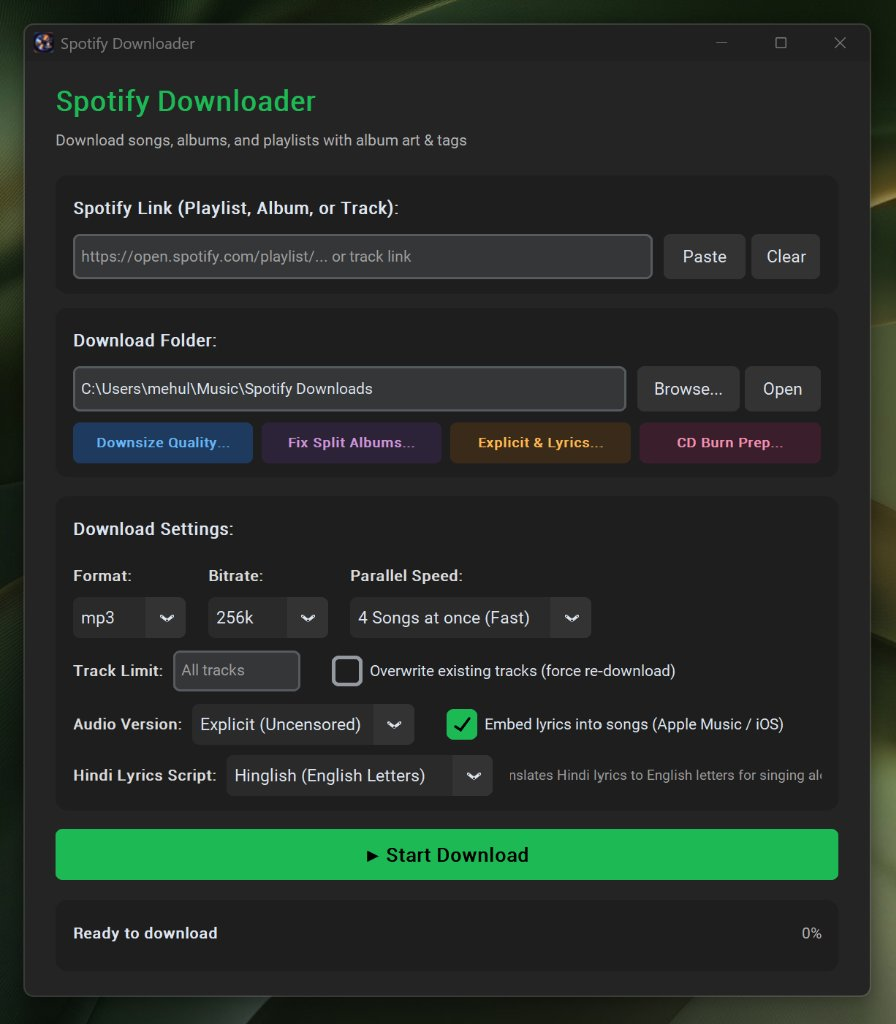
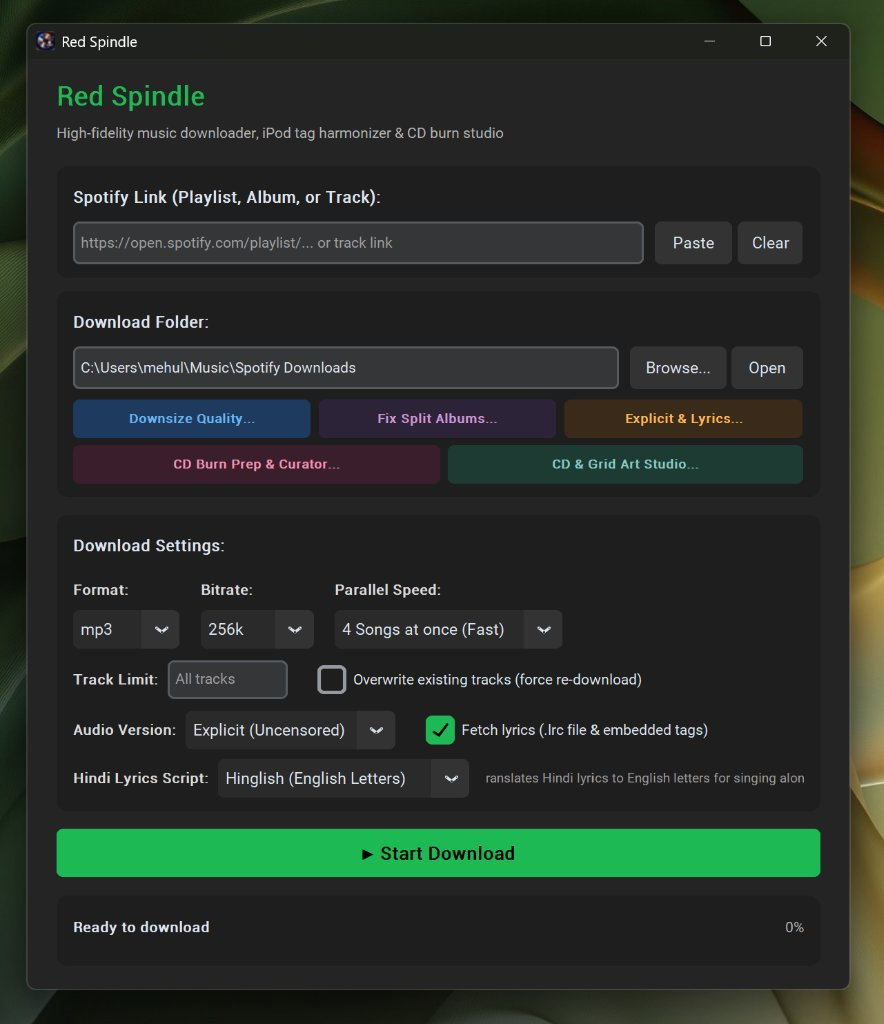
Update screenshots, generalize split album section to universal Album Artist tagging, and add CD art studio comparison gallery

diff --git a/gui.py b/gui.py
@@ -1371,7 +1371,7 @@ class FixAlbumTagsDialog(ctk.CTkToplevel):
     def __init__(self, parent: ctk.CTk, default_folder: Path):
         super().__init__(parent)
 
-        self.title("Fix Split Albums (Apple Music / iTunes)")
+        self.title("Fix Split Albums (Album Artist Tag Unification)")
         self.geometry("640x520")
         self.minsize(580, 460)
         self.transient(parent)
@@ -1438,7 +1438,7 @@ class FixAlbumTagsDialog(ctk.CTkToplevel):
         # Header
         title = ctk.CTkLabel(
             container,
-            text="Fix Split Albums for Apple Music & iOS",
+            text="Fix Split Albums (Album Artist Tag Unification)",
             font=ctk.CTkFont(size=18, weight="bold"),
             text_color="#CE93D8",
             anchor="w",
@@ -1447,7 +1447,7 @@ class FixAlbumTagsDialog(ctk.CTkToplevel):
 
         subtitle = ctk.CTkLabel(
             container,
-            text="Unifies Album Artist tags so albums with featured singers (e.g. Gorillaz feat. Snoop Dogg)\nstay grouped into a single album in Apple Music and iTunes. 100% lossless (no audio re-encoding).",
+            text="Unifies Album Artist tags so albums with featured singers (e.g. Gorillaz feat. Snoop Dogg)\nstay grouped across Windows Media Player, Apple Music, and mobile libraries. Lossless.",
             font=ctk.CTkFont(size=11),
             text_color="gray70",
             justify="left",

diff --git a/README.md b/README.md
@@ -5,9 +5,9 @@
 </p>
 
 <p align="center">
-  <a href="#built-for-apple-music-itunes-and-ipods"><img src="https://img.shields.io/badge/Apple%20Music-100%25%20Ready-FA2D48?style=flat&logo=apple-music&logoColor=white" alt="Apple Music Ready" /></a>
-  <a href="#built-for-apple-music-itunes-and-ipods"><img src="https://img.shields.io/badge/iPod-Classic%20%7C%20Nano%20%7C%20Touch-888888?style=flat&logo=apple&logoColor=white" alt="iPod Compatible" /></a>
-  <a href="#built-for-apple-music-itunes-and-ipods"><img src="https://img.shields.io/badge/iTunes-Sync%20Optimized-E74C3C?style=flat&logo=itunes&logoColor=white" alt="iTunes Sync Ready" /></a>
+  <a href="#library-tagging-and-player-compatibility"><img src="https://img.shields.io/badge/Metadata-Universal%20ID3v2-007ACC?style=flat" alt="Universal ID3v2" /></a>
+  <a href="#library-tagging-and-player-compatibility"><img src="https://img.shields.io/badge/WMP%20%26%20Apple%20Music-Split--Album%20Fix-FA2D48?style=flat" alt="Split-Album Fix" /></a>
+  <a href="#library-tagging-and-player-compatibility"><img src="https://img.shields.io/badge/iPod-Classic%20%7C%20Nano%20%7C%20Touch-888888?style=flat&logo=apple&logoColor=white" alt="iPod Compatible" /></a>
   <a href="#cd-burn-preparation-and-smart-disc-splitting"><img src="https://img.shields.io/badge/CD--R%20Burn-Smart%20Packing-E65100?style=flat" alt="CD-R Smart Packing" /></a>
   <a href="#cd-and-grid-art-studio-stickers-and-collages"><img src="https://img.shields.io/badge/CD%20Sticker%20Studio-300%20DPI%20Print-00897B?style=flat" alt="CD Sticker Studio" /></a>
 </p>
@@ -48,15 +48,15 @@ Prefer a portable single-file app without installing Python? Download from [**La
 
 ---
 
-## Built for Apple Music, iTunes, and iPods
+## Library Tagging and Player Compatibility
 
-Importing downloads into iTunes, Apple Music, or syncing to an iPod often introduces tagging and display problems. Red Spindle addresses these directly:
+Most media players—including Windows Media Player, Apple Music, iTunes, and mobile apps—organize collections using metadata tags. Red Spindle structures tags to avoid common grouping and display issues:
 
-- **Unified Album Artist (Prevents Split Albums)**: On Apple Music and iPods, tracks with guest artists (for example, Gorillaz featuring Snoop Dogg) often separate into multiple 1-song albums. Red Spindle sets a unified `Album Artist` tag (`TPE2` in MP3, `aART` in M4A) while keeping individual track artist credits, keeping albums intact.
-- **Embedded Lyrics for Players Without Sidecar Support**: While standard players use separate `.lrc` files, Apple Music and iPods only display lyrics embedded directly in file metadata (`USLT` for MP3, `©lyr` for M4A). Red Spindle embeds these tags so tapping the album artwork on iOS 7–18 shows the lyrics.
-- **iPod-Compatible 640x640 Artwork**: Progressive or high-resolution JPEGs can crash vintage click-wheel iPods (iPod Video 5th gen, Classic 6th/7th gen, iPod Nano). Covers are saved as standard 640&times;640 baseline JPEGs.
-- **Advisory Badges**: Adds iTunes `rtng` advisory metadata so tracks show official `[E]` (Explicit) or `[Clean]` badges in Apple Music and iTunes.
-- **Library Tag Repair Tool**: Click **Fix Split Albums...** in the app or run `python spotify_dl.py --fix-tags "path/to/music"` to fix Album Artist tags across existing folders without re-encoding audio.
+- **Unified Album Artist (Prevents Split Albums)**: When songs feature guest artists (for example, *Gorillaz feat. Snoop Dogg*), media players lacking a unified `Album Artist` tag (`TPE2` in MP3, `aART` in M4A) separate the release into multiple 1-song albums. Red Spindle sets a consistent `Album Artist` while preserving track-level performer credits.
+- **Dual-Layer Lyrics (.lrc and Embedded Tags)**: Standard players read external `.lrc` files, while closed players (like Apple Music and car stereos) only read internal container tags (`USLT` for MP3, `©lyr` for M4A). Red Spindle provides both.
+- **iPod-Compatible 640x640 Artwork**: Progressive or high-resolution JPEGs can crash click-wheel iPods (iPod Video 5th gen, Classic 6th/7th gen, iPod Nano). Covers are saved as standard 640&times;640 baseline JPEGs.
+- **Content Advisory Badges**: Adds `rtng` metadata so explicit and clean radio tracks display `[E]` or `[Clean]` tags in supporting players.
+- **Library Tag Repair**: Use **Fix Split Albums...** in the app or run `python spotify_dl.py --fix-tags "path/to/music"` to update grouping tags across existing files without re-encoding audio.
 
 ---
 
@@ -217,31 +217,37 @@ python spotify_dl.py --update-explicit "C:\Users\mehul\Music\Spotify Downloads" 
 
 ---
 
-## Apple Music and iTunes Album Grouping (Fix Split Albums)
+## Library Organization: Fixing Split Albums (Album Artist Tagging)
 
-If you download an album with featured guest artists (such as Gorillaz' *Plastic Beach* featuring Snoop Dogg, Bobby Womack, or Little Dragon) and sync it to Apple Music or iOS, the album may appear "fragmented" across your library as multiple separate album tiles with 1 or 2 songs each.
+When downloading an album where individual tracks feature guest performers (such as *Gorillaz feat. Snoop Dogg*), media players often fragment the release into separate 1-song or 2-song albums.
 
-### Why Albums Split in Apple Music
+<p align="center">
+  <img src="assets/screenshot-split-albums.png" alt="Fix Split Albums Tool" width="550" />
+</p>
 
-Apple Music and iOS organize albums by the **Album Artist** tag (`TPE2` in MP3, `aART` in M4A, `albumartist` in FLAC). If an album only has the individual track artist filled in (e.g. `Gorillaz feat. Snoop Dogg`) and the Album Artist is blank or inconsistent, Apple Music treats every unique guest combination as a completely different album.
+### Why Media Players Split Albums
 
-### How Red Spindle Solves This
+Audio formats provide two separate artist metadata fields:
+* **Artist** (`TPE1` in MP3, `©ART` in M4A): The specific performer(s) on a single track.
+* **Album Artist** (`TPE2` in MP3, `aART` in M4A, `albumartist` in FLAC): The primary artist or group credited with the overall release.
 
-- **Automatic for New Downloads**: All new downloads automatically set the primary artist as the unified `Album Artist` while preserving the full guest list in the song title and artist tags.
-- **100% Lossless Consolidation for Existing Music**:
-  - **In the Desktop App**: In the Download Folder card, click **Fix Split Albums...** and click **Scan & Fix Album Tags**.
+Media library managers—including Windows Media Player, iTunes, Apple Music, and mobile apps—index albums by pairing the album title with the `Album Artist`. If `Album Artist` is blank, players fall back to the track `Artist`. When featured guests differ across tracks, the player interprets each guest combination as a distinct artist, scattering the album into separate entries.
+
+### How Red Spindle Fixes This
+
+- **Automatic on Download**: All new downloads set the primary artist as the unified `Album Artist` while preserving guest credits in track titles and artist tags.
+- **Lossless Tag Repair for Existing Libraries**:
+  - **In the Desktop App**: In the **Download Folder** card, click **Fix Split Albums...** and select **Scan & Fix Album Tags**.
   - **In the Terminal (CLI)**:
     ```powershell
     python spotify_dl.py --fix-tags "C:\Users\mehul\Music\Spotify Downloads"
     ```
-  - This scans your music files and harmonizes the `Album Artist` tag across all tracks belonging to the same album. The audio stream is not transcoded or re-compressed; only the ID3 grouping tags are updated.
+  This scans audio files and sets a uniform `Album Artist` tag across each album folder. Audio streams are untouched; only metadata is updated.
 
-### Syncing to iPhone and iOS Devices
+### Player-Specific Refresh Notes
 
-After downloading or running the album consolidation tool:
-1. Open iTunes or Apple Music on your computer.
-2. If the files were already in your iTunes library, right-click the songs and choose **Get Info**, then click **OK** to let iTunes refresh its tag cache.
-3. Sync your iPhone or iPod. All songs will now appear grouped together under a single, unified album cover.
+* **Windows Media Player / Media Player**: Automatically detects updated `TPE2` tags and regroups the tracks under a single album tile.
+* **Apple Music & iTunes**: If songs were already imported, select the affected tracks in iTunes or Apple Music, open **Get Info** (`Ctrl + I` on Windows, `Cmd + I` on macOS), and click **OK** to force the app to reload its metadata cache. Then re-sync your iPhone or iPod.
 
 ---
 
@@ -312,13 +318,14 @@ If you have a large library of downloaded songs and want to burn them onto stand
 
 Once your songs are curated or burned, generate high-resolution printable circular CD stickers (120 mm) or square/rectangular artwork collages with the built-in **CD & Grid Art Studio**:
 
-<p align="center">
-  <img src="assets/screenshot-cd-art.png" alt="CD Sticker and Grid Art Studio" width="700" />
-</p>
+| **Style 1: Curved Polar Fan** | **Style 2: Concentric Tiles** | **Style 3: Any-by-Any Grid** |
+| :---: | :---: | :---: |
+| <img src="assets/screenshot-art-curved.png" alt="Style 1: Curved Polar Fan" width="300" /> | <img src="assets/screenshot-art-tiles.png" alt="Style 2: Concentric Tiles" width="300" /> | <img src="assets/screenshot-art-grid.png" alt="Style 3: Any-by-Any Grid" width="300" /> |
+| Full-bleed circular wedges scaling to disc rim | Square tiles rotated along concentric rings | Configurable R &times; C grid for jewel cases |
 
 <p align="center">
   <img src="assets/cd-player.gif" alt="Printed CD Sticker in Action" width="320" /><br />
-  <em>Real-world result: 1:1 true-to-scale printed CD sticker loaded into a physical CD player tray.</em>
+  <em>Printed 1:1 scale disc sticker loaded in a CD player tray.</em>
 </p>
 
 ### Layout Styles
